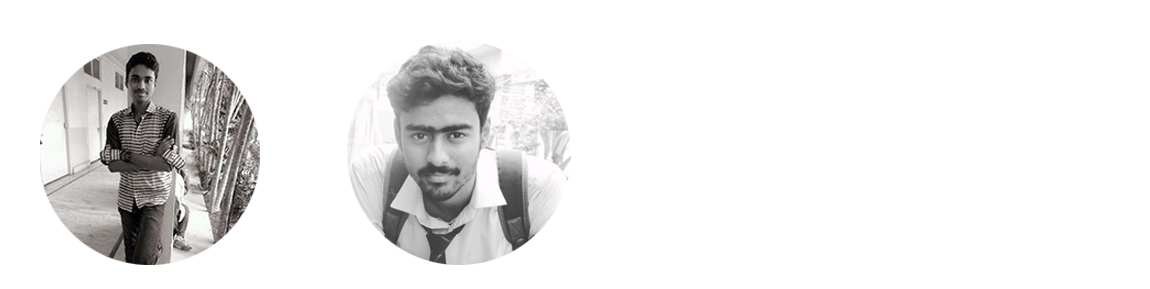
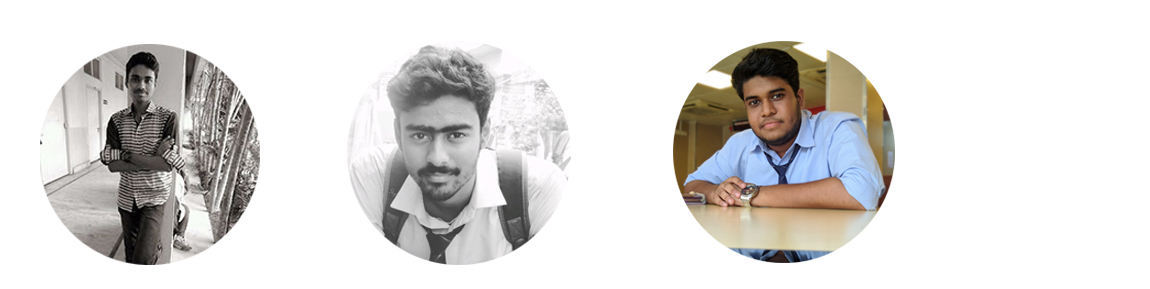
MEET THE TEAM UPDATED WITH FARAZ

Changed region(s): [[0.5783, 0.1246, 0.7913, 0.9343]]

diff --git a/index.html b/index.html
@@ -200,7 +200,7 @@ if(typeof Muse == "undefined") window.Muse = {}; window.Muse.assets = {"required
    <div class="wow zoomIn animated">
      <img src="F:/b2bfinal/images/line22.jpg">
    </div>
-   &emsp;&emsp;&emsp;&emsp;&emsp;&emsp;<button class="button">SRIJIT PAL</button>&emsp;&emsp;&emsp;&emsp;&emsp;&emsp;&emsp;&emsp;&emsp;&emsp;&emsp;&emsp;&emsp;<button class="button">KIRTI BISWAS</button>
+   &emsp;&emsp;&emsp;&emsp;&emsp;&emsp;<button class="button">SRIJIT PAL</button>&emsp;&emsp;&emsp;&emsp;&emsp;&emsp;&emsp;&emsp;&emsp;&emsp;&emsp;&emsp;&emsp;<button class="button">KIRTI BISWAS</button>&emsp;&emsp;&emsp;&emsp;&emsp;&emsp;&emsp;&emsp;&emsp;&emsp;&emsp;&emsp;&emsp;&emsp;<button class="button">FARAZ ALI</button>
    <br>
    <div class="clearfix grpelem" id="u641-6"><!-- content -->
     <p>Designed and Developed by Team Bit2Byte</p>
